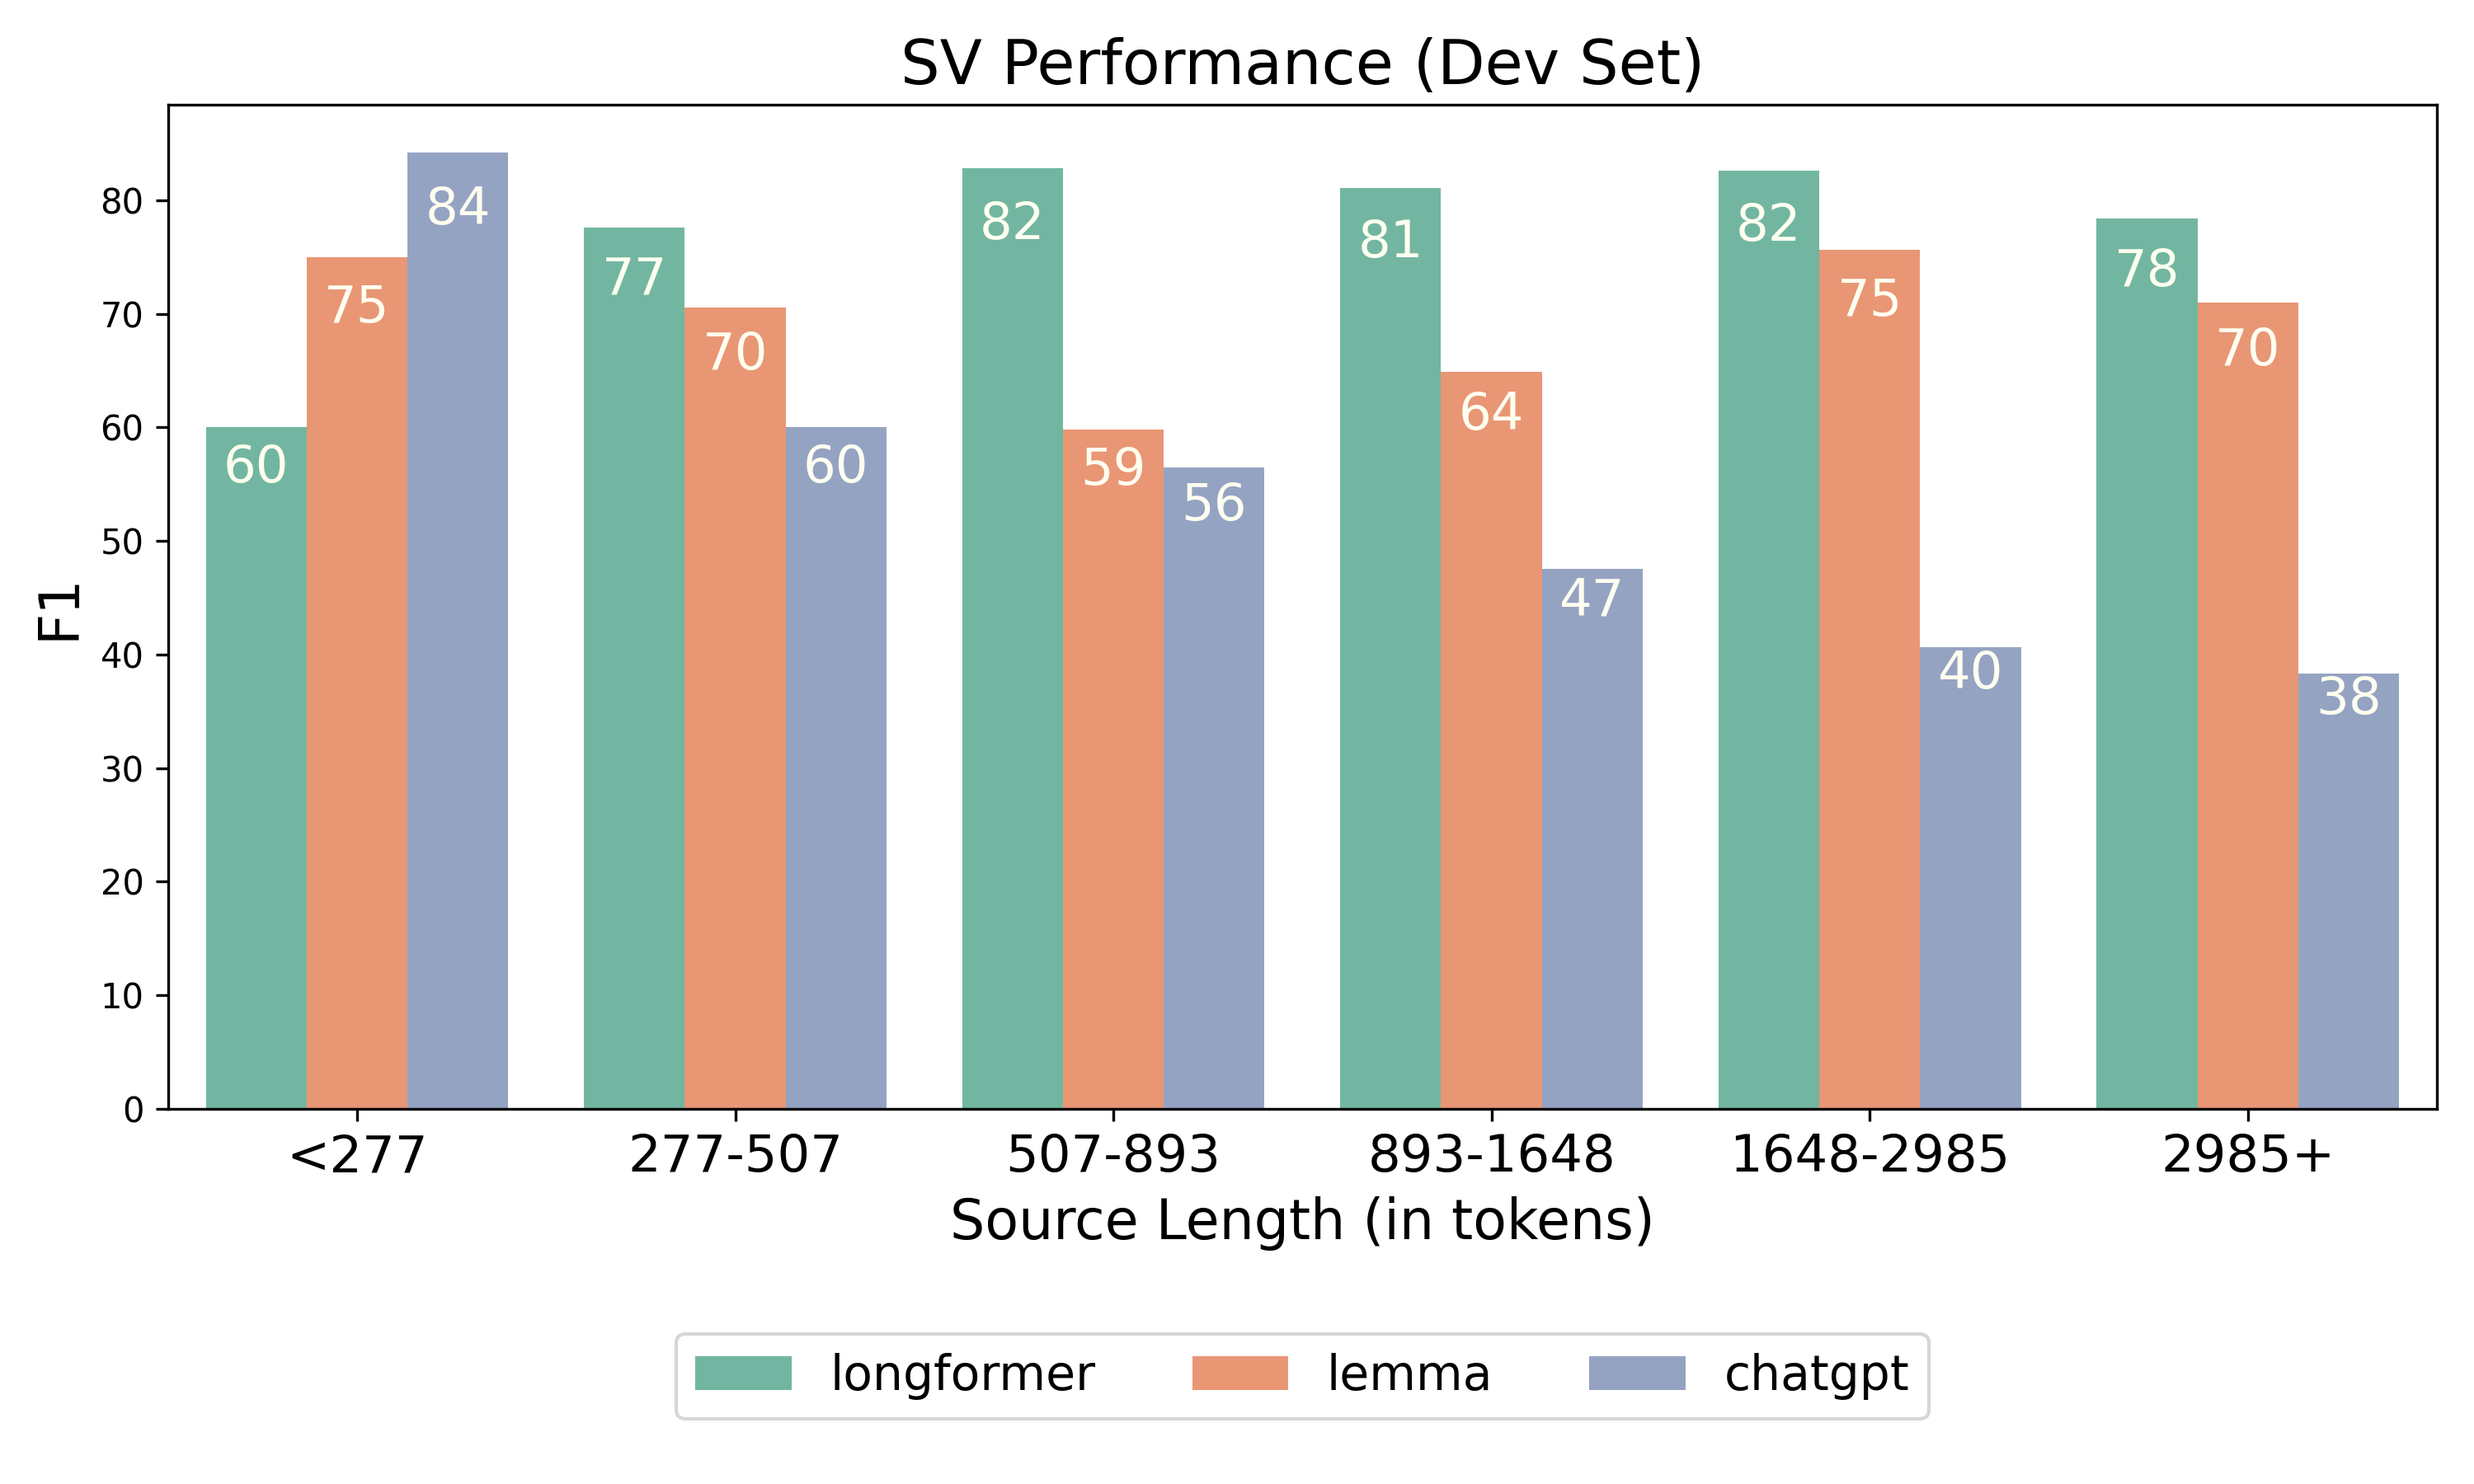
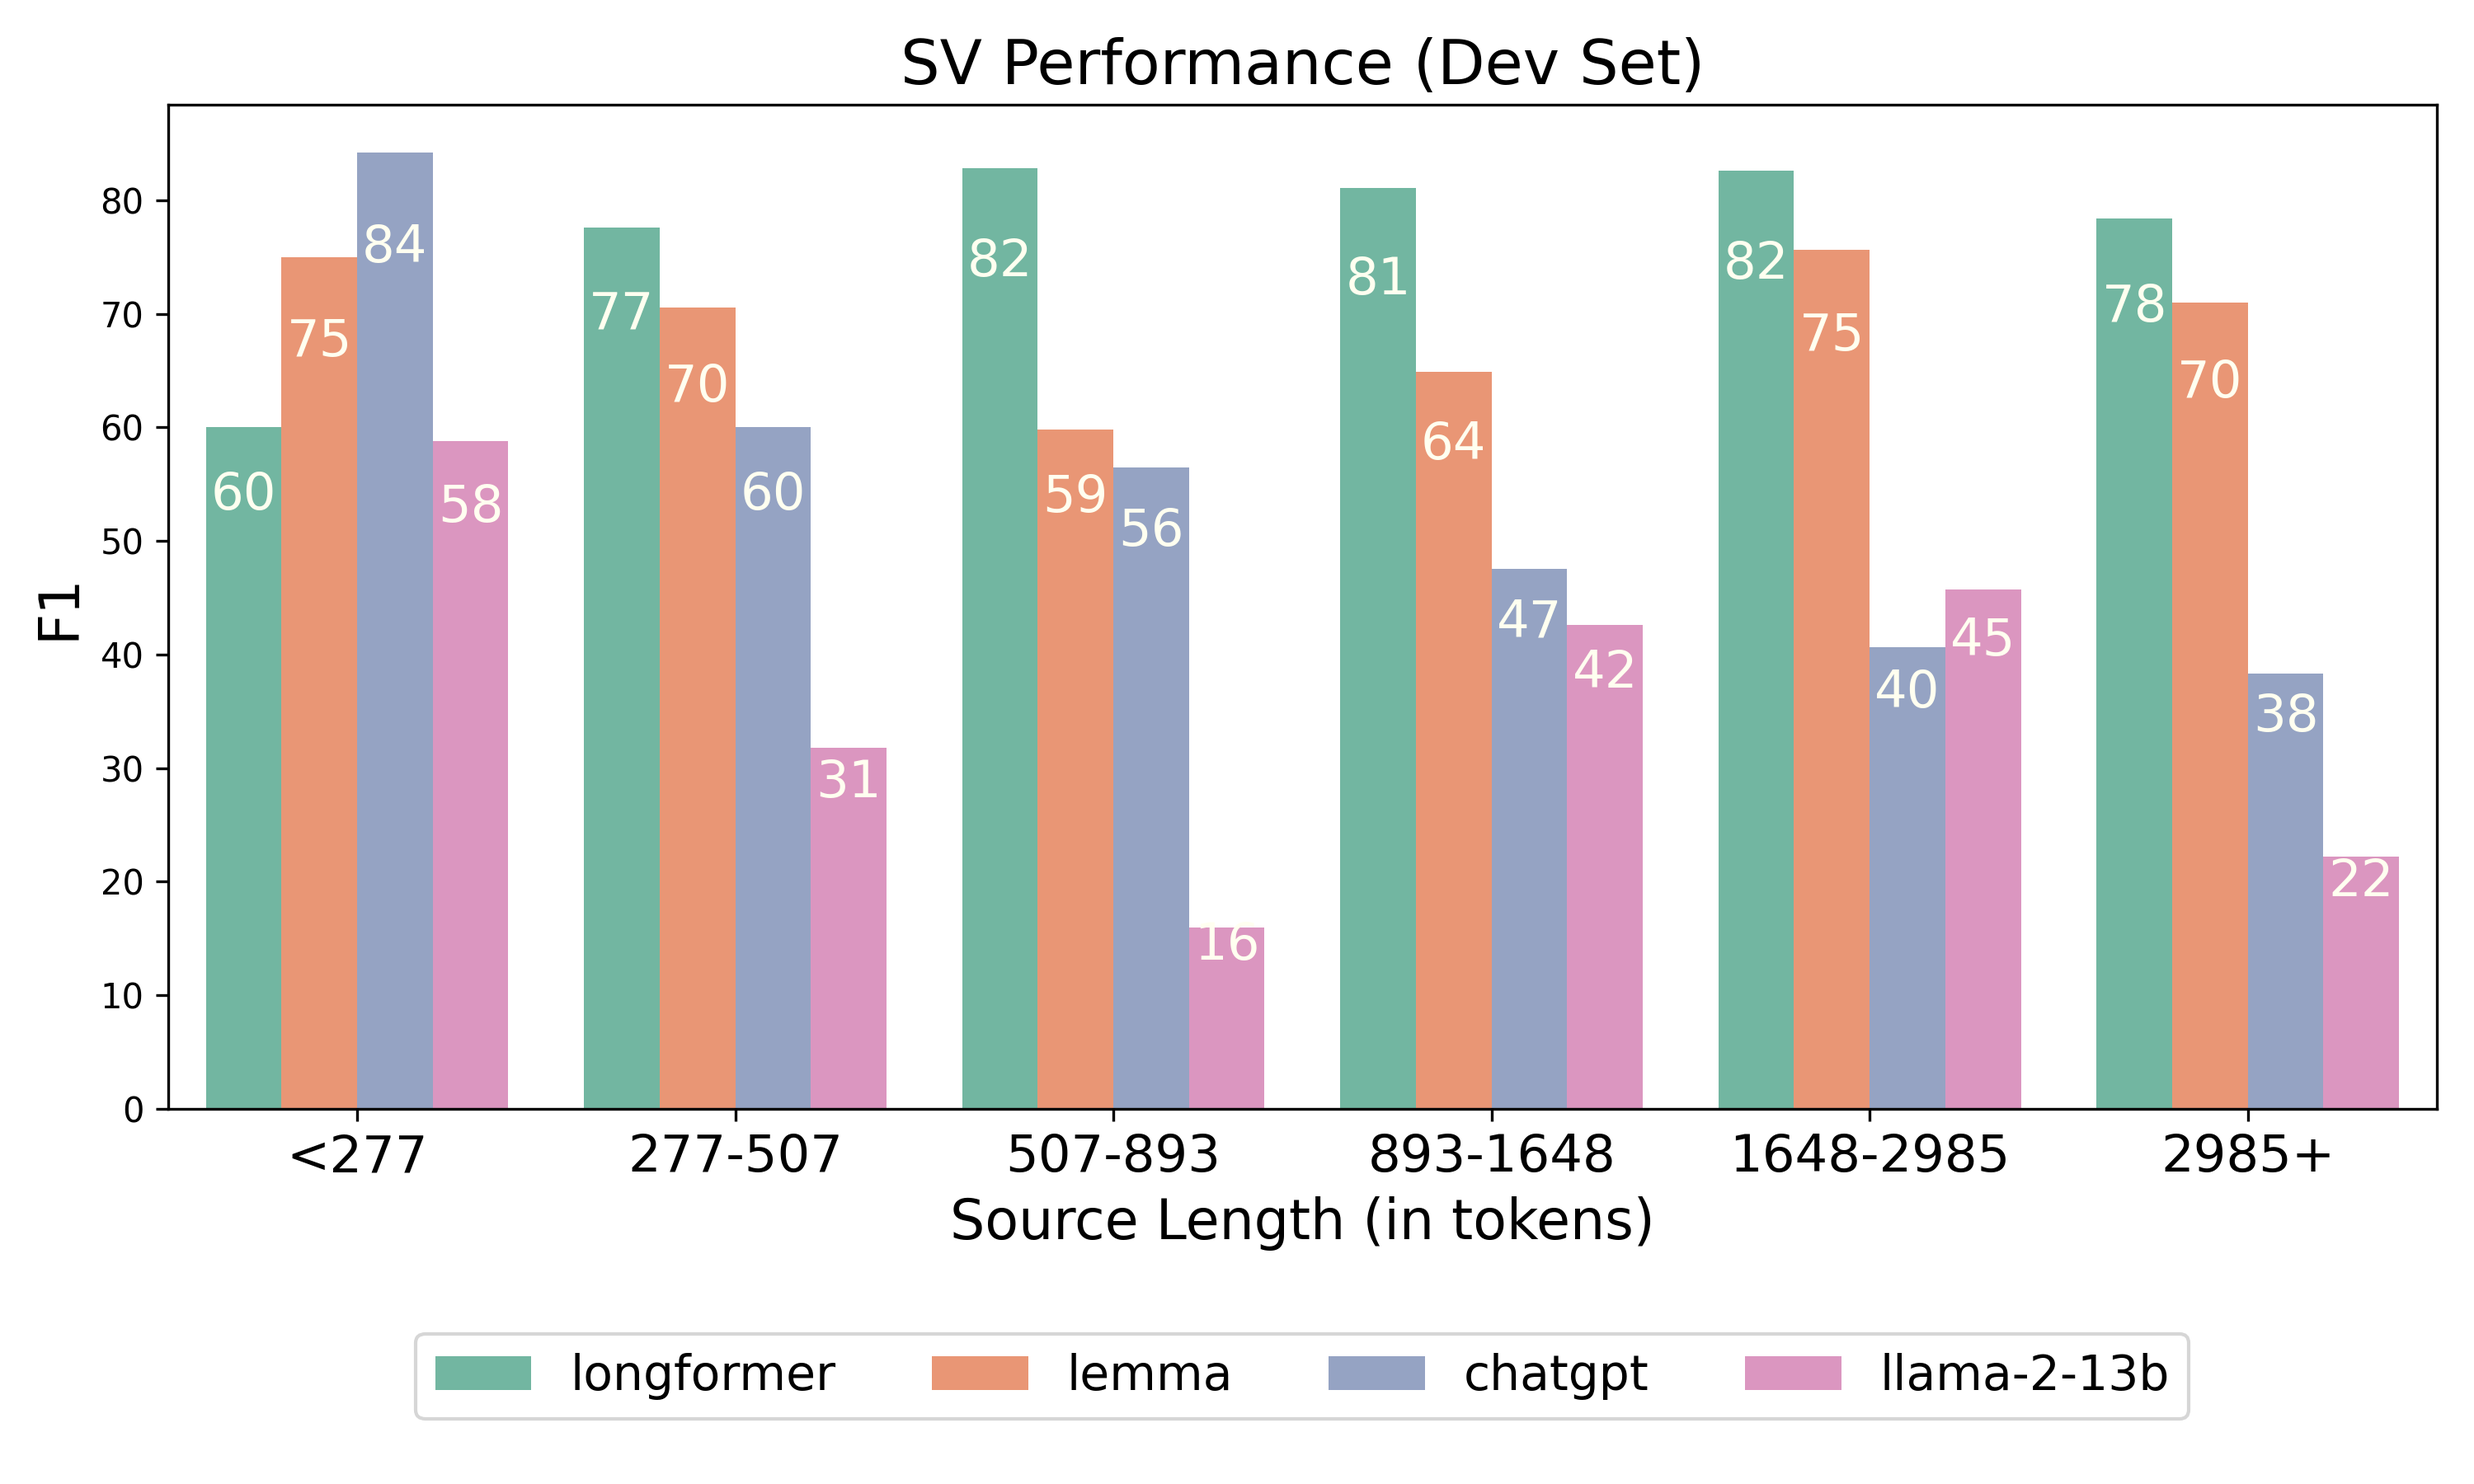
included llama results + png images

diff --git a/src/model_scripts/analysis_source_val.py b/src/model_scripts/analysis_source_val.py
@@ -80,7 +80,7 @@ def source_val_instances_predictions_to_true_and_predicted_labels(
         prediction_labels = [int(x['label'].split('_')[-1]) for x in model_predictions]
     elif model == 'lemma':
         prediction_labels = [int(is_lemma_in_source(instance)) for instance in model_predictions]
-    elif model == 'chatgpt' or model == 'llama':
+    elif model == 'chatgpt' or model == 'llama-2-13b':
         prediction_labels = [parse_llm_response_for_source_val(response_dct['response']) 
                                     for response_dct in model_predictions]
     else:
@@ -128,6 +128,7 @@ def main():
     source_val_model_path = args.model_path
     longformer_model_path = os.path.join(source_val_model_path, "results", "best_model")
     chatgpt_model_path = os.path.join(source_val_model_path, "chatgpt")
+    llama_model_path = os.path.join(source_val_model_path, "llama")
 
     ## Load data
     with open(os.path.join(source_val_data_path, "dev.jsonl"), 'r') as f:
@@ -140,6 +141,9 @@ def main():
     with open(os.path.join(chatgpt_model_path, "dev_gpt-3.5-turbo-0301_responses.jsonl"), 'r') as f:
         chatgpt_predictions = [json.loads(line) for line in f.readlines()]
 
+    with open(os.path.join(llama_model_path, "dev_sv_llama_13b_responses.jsonl"), 'r') as f:
+        llama_predictions = [json.loads(line) for line in f.readlines()]
+
     ## Create bins based on Source Length
     longformer_bins_with_indices = bin_data_with_indices(source_val_data, 
                                           source_lengths, 
@@ -149,10 +153,14 @@ def main():
                                             source_val_data)
     chatgpt_model_bins_with_indices = bin_data_with_indices(source_val_data,
                                                 source_lengths,
-                                            chatgpt_predictions)  
+                                            chatgpt_predictions)
+
+    llama_model_bins_with_indices = bin_data_with_indices(source_val_data,
+                                                source_lengths,
+                                            llama_predictions)  
 
     ## Compute metrics across bins
-    models = ['longformer', 'lemma', 'chatgpt']
+    models = ['longformer', 'lemma', 'chatgpt', 'llama-2-13b']
     # Initialize the dictionary
     metric_values_dict = {'accuracy': {model: [] for model in models},
                           'precision': {model: [] for model in models},
@@ -166,6 +174,8 @@ def main():
                 bins_with_indices = lemma_model_bins_with_indices
             elif model == 'chatgpt':
                 bins_with_indices = chatgpt_model_bins_with_indices
+            elif model == 'llama-2-13b':
+                bins_with_indices = llama_model_bins_with_indices
 
             # Compute the metrics for each bin
             for bin_key in bins_with_indices:
@@ -209,7 +219,7 @@ def main():
         if height > 0:
             # Show accuracy values to two decimal places
             barplot.annotate(int(height),
-                            (p.get_x() + p.get_width() / 2., height*0.94),
+                            (p.get_x() + p.get_width() / 2., height*0.90),
                             ha = 'center', va = 'center', 
                             color='ivory', fontsize=15)
 

diff --git a/src/model_scripts/test_source_val.py b/src/model_scripts/test_source_val.py
@@ -75,6 +75,11 @@ def parse_args():
                         required = True,
                         help="Path to the chatgpt output file")
     
+    parser.add_argument("--llama_output_file_path",
+                        type=str,
+                        required = True,
+                        help="Path to the llama output file")
+    
     parser.add_argument("--split", 
                         type=str, 
                         default="test",
@@ -156,6 +161,17 @@ def main():
             chatgpt_responses = [json.loads(line) for line in f.readlines()]
         for response_dct in chatgpt_responses:
             chatgpt_predictions.append(parse_llm_response_for_source_val(response_dct['response']))
+
+    ########################
+    # Llama predictions
+    ########################
+    # check if chatgpt output file exists
+    llama_predictions = []
+    if os.path.exists(args.llama_output_file_path):
+        with open(args.llama_output_file_path) as f:
+            llama_responses = [json.loads(line) for line in f.readlines()]
+        for response_dct in llama_responses:
+            llama_predictions.append(parse_llm_response_for_source_val(response_dct['response']))
     # Write metrics
     ########################
     with open(os.path.join(args.metrics_output_dir, f"metrics_source_val_{args.split}.json"), 'w') as f:
@@ -183,6 +199,14 @@ def main():
             chatgpt_r = f"{recall_score(test_labels, chatgpt_predictions, average='binary')*100:.2f}"
             chatgpt_f1 = f"{f1_score(test_labels, chatgpt_predictions, average='binary')*100:.2f}"
             f.write(f"{chatgpt_a} & {chatgpt_p} & {chatgpt_r} & {chatgpt_f1}\n")
+        f.write("\n###########################\n")
+        if llama_predictions:
+            f.write("Llama Model Metrics:\n")
+            llama_a = f"{accuracy_score(test_labels, llama_predictions)*100:.2f}"
+            llama_p = f"{precision_score(test_labels, llama_predictions, average='binary')*100:.2f}"
+            llama_r = f"{recall_score(test_labels, llama_predictions, average='binary')*100:.2f}"
+            llama_f1 = f"{f1_score(test_labels, llama_predictions, average='binary')*100:.2f}"
+            f.write(f"{llama_a} & {llama_p} & {llama_r} & {llama_f1}\n")
     print(f"Metrics exported to: {os.path.join(args.metrics_output_dir, f'metrics_source_val_{args.split}.json')}")
 
 
